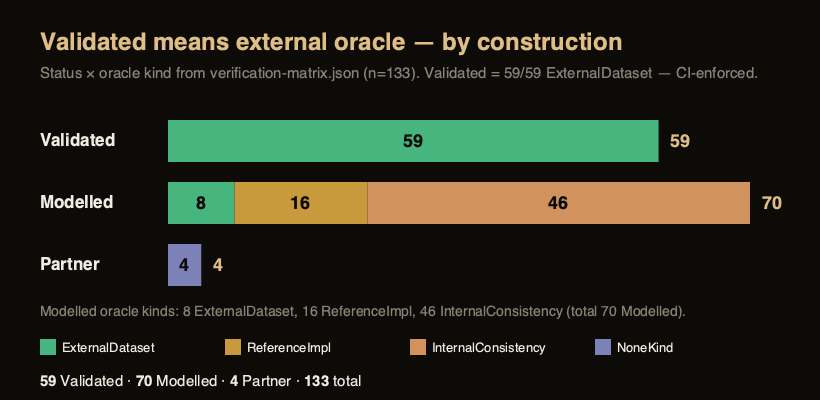
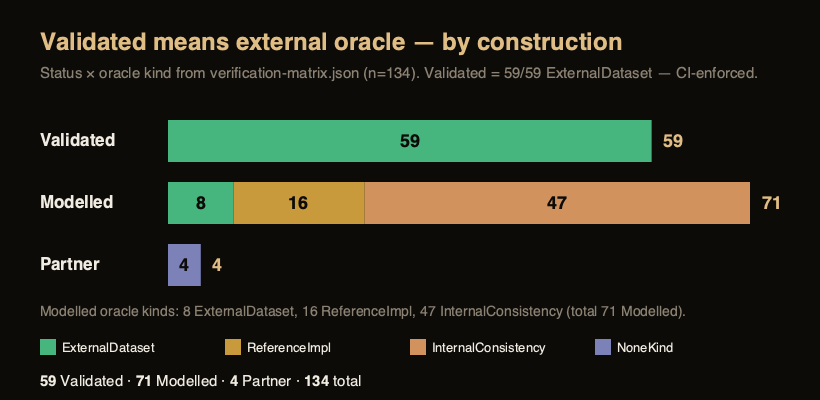
docs(verification): 134 rows after the gate-integrity capability lands
59 VALIDATED, 71 MODELLED, 4 PARTNER. Regenerates every derived artifact and moves
all thirteen count surfaces and both figure pairs together.

The count strings appear in six spellings across the four READMEs and the website —
markdown bold, HTML strong, badge alt text, figure alt text, an inline prose clause
and a static span — and three of them were missed by the first pass because they
differ only in punctuation. Replaced by exact string, never by a numeric pattern:
the same files carry 'degree/order 70' and '70 km of INS drift', which a blanket
substitution would have quietly corrupted.

diff --git a/web/index.html b/web/index.html
@@ -27,7 +27,7 @@
     <meta property="og:image:type" content="image/png" />
     <meta
       property="og:image:alt"
-      content="Kshana — PNT-resilience simulator. Open, reproducible simulation of positioning, navigation and timing when GNSS is denied. 59 of 133 capabilities validated against external oracles."
+      content="Kshana — PNT-resilience simulator. Open, reproducible simulation of positioning, navigation and timing when GNSS is denied. 59 of 134 capabilities validated against external oracles."
     />
     <!-- Twitter / X card -->
     <meta name="twitter:card" content="summary_large_image" />
@@ -42,7 +42,7 @@
     <meta name="twitter:image" content="https://kshana.dev/og-card.png" />
     <meta
       name="twitter:image:alt"
-      content="Kshana — PNT-resilience simulator. 59 of 133 capabilities validated against external oracles."
+      content="Kshana — PNT-resilience simulator. 59 of 134 capabilities validated against external oracles."
     />
     <!-- Structured data: schema.org SoftwareApplication -->
     <script type="application/ld+json">
@@ -466,7 +466,7 @@
             <p class="eyebrow" data-i18n="ledger.eyebrow">Evidence ledger</p>
             <h2 data-i18n="ledger.heading">The complete validation matrix — every row, every proof</h2>
             <p data-i18n-html="ledger.intro">
-              All <span id="ldg-total">133</span> capabilities, generated from
+              All <span id="ldg-total">134</span> capabilities, generated from
               <code>src/verification.rs</code> and pinned to it in CI. Each row links to the
               <strong>test</strong> that enforces it, the <strong>module</strong> that
               implements it, and any committed <strong>fixture/provenance</strong> — so every

diff --git a/docs/MODELLED-RATIONALE.md b/docs/MODELLED-RATIONALE.md
@@ -76,5 +76,6 @@ These capabilities are implemented from published or first-principles physics wi
 | Lunar service volume from real, retrieved constellation geometry | Accepts a tabulated Moon-centred state ephemeris (the evaluation of an SPK/BSP kernel) or a published constellation definition behind `ephemeris_path`, runs the identical coverage / DOP / protection-level sweep against it, and emits the σ_URE ranging requirement it implies BESIDE the unchanged illustrative Keplerian and perturbed results with the difference as its own named quantity. Every figure carries a provenance class that distinguishes kernel-derived from published-element-derived from modelled, so the two can never be confused in a downstream quotation | InternalConsistency | checked against its own closed-form / analytic identity — catches transcription and coefficient errors, but is not an external oracle — The GEOMETRY is external and hashed: three fixtures whose numbers come only from documents retrieved with URL, retrieval date and SHA-256, regenerable by committed generators that verify the upstream hash and ABORT rather than emit a number — the LANS interoperability-demonstration reference constellation (NASA NTRS 20250009447, SHA-256 d1b916be…), the LNCSS case studies (NAVIGATION 70(4) navi.613, CC BY, SHA-256 4e294687…), and a genuine flown-spacecraft ephemeris for LRO, Danuri, Chandrayaan-2 and CAPSTONE evaluated from JPL's own reconstructed kernels via Horizons. NO lunar-navigation constellation kernel exists publicly — Moonlight/LCNS, LCRNS and LNSS are not flying and NAIF publishes nothing for them — and none was invented. The DERIVED σ_URE requirement has NO external oracle (nobody publishes the ranging accuracy a 50 m lunar HPL demands over this service volume), so it is checked against its own algebraic identity and, independently, by re-running the whole sweep at the computed requirement and confirming availability flips there. MEASURED: the published 8-satellite design needs σ_URE 2.9044 m at 100 % coverage against the illustrative constellation's 0.3591 m at 37.85 % — an 8.09× revision of a published number under programme rule R4. The qualitative conclusion survives (LNIS-class 30 m still does not close a 50 m south-polar HPL) but the shortfall was overstated eightfold. The 5-satellite LANS demo yields ZERO protection-level samples — five satellites cannot give the six-in-view a single-fault hypothesis set needs — and the requirement field is ABSENT rather than fabricated; likewise for the four real spacecraft at 0 % coverage. InternalConsistency is the honest kind: the INPUT data is external and hashed, but the quantity this row is about is validated only against itself | lunar_ephemeris, lunar_service | lunar_ephemeris::tests (format and frame parsing; Lagrange interpolation exact at nodes and on a linear track off-node; ICRF elements take the IAU 2015 reduction and are byte-equal to an explicit icrf_to_iau_moon application; true↔mean anomaly round-trips against a forward Kepler solve; malformed files refused with the reason named). lunar_service::tests (with `ephemeris_path` unset the report's key set and SHA-256 are pinned; the Keplerian row equals the standalone Keplerian run field for field; the identity σ_required · HPL_max / σ_URE = AL, then an END-TO-END re-run at the computed requirement reaching 100 % protection-level availability and a re-run 1 % above it not reaching it; every emitted numeric field of both new blocks walked from the produced JSON for a unit and a provenance class; the committed fixtures matched to their source tables satellite for satellite; a horizon past the end of a table refused) |
 | Unit and provenance declared for every reported quantity | A machine-readable schema giving unit, provenance class and definition for every numeric field of every scenario report, plus a single global gate that runs every registered scenario kind and fails if an emitted numeric field lacks either. The provenance vocabulary is closed and each class carries an evidence tier, with two classes deliberately mapped to `inherits-scenario-label` and `depends-on-input` rather than being assigned a tier the class does not determine | InternalConsistency | checked against its own closed-form / analytic identity — catches transcription and coefficient errors, but is not an external oracle — The emitted document itself: every numeric leaf must resolve to an entry in that document's own units block. There is no external unit registry to check a DECLARED unit against, so a declared unit is a reviewed assertion and not a verified one — the gate verifies COMPLETENESS and WELL-FORMEDNESS, not truth, and Validated would be wrong because nothing external confirms that `m` is the right unit for a field named `_m`. An independent name-suffix cross-check was run over the 1,434 described fields: of the 691 carrying a unit-bearing suffix, 40 disagree with the declared unit and all 40 are explained (per-second suffixes, minima, aperture-seconds, newton-metres against a nanometre-looking suffix), so no wrong unit surfaced. COVERAGE MOVED 7 of 56 kinds to 56 of 58, and 389 of 1354 fields to 1434 of 1477. Two kinds remain uncovered and are named with reasons rather than hidden behind a wildcard: `sweep-nd`, two of whose columns are caller-keyed so their units are data, and `cislunar-observability`, whose released document is byte-frozen by an explicit additivity pin asserting it has no units key — adding one is a decision about that pin, not about units. The work also surfaced twelve unit or documentation defects in existing code, reported rather than fixed under R1 | field_schema | tests/field_units_global.rs (all 58 registered kinds run, one document shape each, ~31 s: every numeric leaf must resolve to an entry in that document's own units block; a malformed entry counts as missing for EVERY kind, exempt or not, so a placeholder buys no coverage; the exemption list may not exceed its pinned ceiling, a listed kind that turns out to be fully covered FAILS the gate so the list cannot be padded, and a registered kind absent from the runner table fails so a new pack cannot slip in unexamined — which it did, catching both kinds added after this work began; a one-way ratchet on the described-but-undefined backlog; and a staleness check on the committed schema document); field_schema::tests |
 | Lunar frame datum from a REAL observing campaign | The seven-parameter Helmert datum covariance, with its two simulated inputs replaced by measured ones: the schedule is the ground-transmit epochs of 337 archived ILRS lunar laser-ranging normal points (2015-04-08 to 2015-06-27, Grasse MeO 7845 and Matera MLRO 7941, all five retroreflector arrays) and every observation weight is that point's own archived precision bin_rms/√n_raw — median 5.13 mm of one-way range, read out of the file. Station coordinates IERS ITRF2020, reflector coordinates JPL DE430 Table 7. Runnable as the `lunar-llr-datum` scenario kind | ReferenceImpl | checked against a separate implementation in this same codebase — independent of the unit under test, but not externally authoritative — Closed-form identities and an independent in-repo route; NO external oracle is claimed for the covariance, because no published lunar-LLR datum-covariance pair exists to check it against. The only new derivative — the range partial with respect to the reflector's body-fixed position — is re-derived by central finite difference of the two-way light time it differentiates, a path sharing no expression with the analytic form. The physics oracle is structural: the partial of a range IS twice the line of sight, so the body-fixed coordinate along the mean direction to Earth must be determined far better than the two plane-of-sky coordinates, which only the libration reaches — measured at 50.7× to 71.7× across the five arrays against a libration sweep the report measures independently, with the isotropic small-angle prediction and the transverse anisotropy that explains the gap both printed. WHAT CHANGED: the schedule, the observation count and every observation weight are now measured; 337 of 349 archived points are used and the 12 that are not are skipped and counted, because ITRF2020 carries no position for Apache Point. MEASURED: datum translation sigma 1.851746e-2 m against the SIMULATED campaign's 6.3975 m (345×), rotation 36×, scale 24× — a ratio between a laser-range network and a VLBI-delay network, so a finding rather than a validation. Reflector information rank 15/15 with inter-array coupling exactly 0; Helmert rank 7/7, condition 2.4e4. WHAT THIS ROW DOES NOT CLAIM: that the figure is right in absolute terms. A real LLR solution co-estimates the lunar orbit, physical librations, Earth orientation, station coordinates and tidal and relativistic parameters, and reports decimetres (DE430 Table 7's own 0.12-0.27 m) where this bound is far smaller; this is a Cramér-Rao bound for a stated reduced parameter set, not an accuracy. Stays MODELLED: the Moon-centre ephemeris and the IAU 2015 body orientation are modelled, and troposphere, tides, station eccentricity, polar motion, UT1-UTC, relativistic delay and station clocks are absent. Their combined size is PUBLISHED rather than argued — observed-minus-computed one-way range 156,494 m RMS over the 337 points — and their effect on the covariance is BOUNDED rather than argued: re-solving the entire datum with every partial tilted by 0.1° (twice the measured worst-epoch ephemeris tilt, sign alternating) moves the deliverable by 0.288 % | lunar_llr, realdata::llr_crd (composing fim, cio, frames, ephem, lunar_frame, lunar_frame_campaign) | tests/lunar_llr_real_data.rs (11 tests: all 15 committed CRD files byte-identical to their recorded digests; all 349 records accounted for, 337 used and 12 skipped for a named reason; every archived range inside the real perigee/apogee envelope; the weights shown to BE bin_rms/√n_raw; the line-of-sight coordinate best determined for every array with the libration sweep that buys it measured separately; the residual and its independent confirmation against JPL Horizons; the 0.1-degree geometry-tilt sensitivity; the simulated-campaign comparison shown equal to an independent run of that scenario; an R1 bit-for-bit pin on the three pre-existing lunar frame packs); lunar_llr::tests (12: the range partial against a central finite difference of the modelled time of flight to < 1e-6 relative; the light time a converged lunar round trip; the datum sigma exactly linear in the weight scale to 1e-9; block-diagonality exact; a missing data directory refused rather than substituted; an edited catalogue row caught by its own radius column); realdata::llr_crd::tests (7: field semantics, midnight rollover, refusal of a non-UTC time scale and of an unsupported format version, and no substituted sigma for an empty bin) |
+| Gate integrity — a green that means what it says | Three structural guards over the verification process itself, each closing a class of defect that reached the canonical gate as an intermittent or spurious red. (1) Every constructed temp path in the Rust sources must carry a per-call unique component; a process id is rejected, because cargo runs the library tests as parallel threads of ONE process and the pid is shared by all of them. (2) Every byte-for-byte or hash pin must declare, next to itself or in its module header, what it covers and what it deliberately excludes — so a cross-cutting change can tell at a glance which pins are in scope and which have silently become repository-wide change detectors. (3) A green is claimable only from the FULL suite: scripts/gate.sh runs `cargo test --all`, captures the true exit code with no pipe in the way, and writes a receipt naming the commit, the integration-binary count, the test count and the duration; the pre-push check refuses a push whose commit no valid receipt names, on a clean tree. Repeatability is sampled separately by scripts/check-repeatability.sh, which runs the library suite N times and fails if the set of passing tests differs. | InternalConsistency | checked against its own closed-form / analytic identity — catches transcription and coefficient errors, but is not an external oracle — Closed-form: each guard is run over a fixed known-bad snippet that must fire and a fixed known-good snippet that must stay silent, both literal constants the detector cannot influence. The two known-bad snippets are the F22 and F25 defects in their original shape. This is an INTERNAL oracle and the row is MODELLED accordingly: it proves the guards discriminate the defect from its fix, not that the classes they describe are exhaustive. Their stated blind spots — shared state that is not a path, a pin held in a short named constant, a rare race that three runs do not sample, and a receipt that anyone who can write the file can forge — are written out in the module documentation of tests/source_guards.rs and in each script's header rather than left to be discovered. | scripts/gate.sh, scripts/check-gate-receipt.sh, scripts/check-repeatability.sh, scripts/install-gate-hook.sh | tests/source_guards.rs (9 tests: both guards over the whole source tree, plus mutation fixtures that grade each guard in both directions — the F22 pattern reported on both colliding paths, the shipped atomic-sequence fix accepted, a half-fix reported on exactly the path that lost its unique component, a tempfile handle and an inherited unique directory accepted, a wall clock rejected; an undeclared pin reported, a declared one accepted, a scope without an exclusion rejected, a declaration in the enclosing test's doc comment accepted and shown not to leak to the next test; and each pin spelling — hex, decimal, digest string, byte length, named byte count, golden file — seen while algorithm constants, RNG seeds and small cardinality checks are not) |
 
-70 capabilities labelled MODELLED.
+71 capabilities labelled MODELLED.

diff --git a/docs/VERIFICATION-MATRIX.md b/docs/VERIFICATION-MATRIX.md
@@ -2,7 +2,7 @@
 
 <!-- Generated by `cargo run --bin gen_validation_artifacts` from src/verification.rs; pinned by tests/verification_artifacts_doc_sync.rs. Do not edit by hand. -->
 
-The complete, machine-checked evidence ledger: **133 rows — 59 VALIDATED, 70 MODELLED, 4 PARTNER**. A row may be VALIDATED only with an independent external oracle (the matrix invariant tests enforce this). The same data, with clickable per-row links to each test, module and committed fixture, is the *Validation ledger* on https://kshana.dev. See [MODELLED-RATIONALE.md](MODELLED-RATIONALE.md) for why each Modelled row is not externally validated.
+The complete, machine-checked evidence ledger: **134 rows — 59 VALIDATED, 71 MODELLED, 4 PARTNER**. A row may be VALIDATED only with an independent external oracle (the matrix invariant tests enforce this). The same data, with clickable per-row links to each test, module and committed fixture, is the *Validation ledger* on https://kshana.dev. See [MODELLED-RATIONALE.md](MODELLED-RATIONALE.md) for why each Modelled row is not externally validated.
 
 | Requirement | Capability | Module | Tests | Oracle | Status |
 |---|---|---|---|---|---|
@@ -139,5 +139,6 @@ The complete, machine-checked evidence ledger: **133 rows — 59 VALIDATED, 70 M
 | Unit and provenance declared for every reported quantity | A machine-readable schema giving unit, provenance class and definition for every numeric field of every scenario report, plus a single global gate that runs every registered scenario kind and fails if an emitted numeric field lacks either. The provenance vocabulary is closed and each class carries an evidence tier, with two classes deliberately mapped to `inherits-scenario-label` and `depends-on-input` rather than being assigned a tier the class does not determine | field_schema | tests/field_units_global.rs (all 58 registered kinds run, one document shape each, ~31 s: every numeric leaf must resolve to an entry in that document's own units block; a malformed entry counts as missing for EVERY kind, exempt or not, so a placeholder buys no coverage; the exemption list may not exceed its pinned ceiling, a listed kind that turns out to be fully covered FAILS the gate so the list cannot be padded, and a registered kind absent from the runner table fails so a new pack cannot slip in unexamined — which it did, catching both kinds added after this work began; a one-way ratchet on the described-but-undefined backlog; and a staleness check on the committed schema document); field_schema::tests | The emitted document itself: every numeric leaf must resolve to an entry in that document's own units block. There is no external unit registry to check a DECLARED unit against, so a declared unit is a reviewed assertion and not a verified one — the gate verifies COMPLETENESS and WELL-FORMEDNESS, not truth, and Validated would be wrong because nothing external confirms that `m` is the right unit for a field named `_m`. An independent name-suffix cross-check was run over the 1,434 described fields: of the 691 carrying a unit-bearing suffix, 40 disagree with the declared unit and all 40 are explained (per-second suffixes, minima, aperture-seconds, newton-metres against a nanometre-looking suffix), so no wrong unit surfaced. COVERAGE MOVED 7 of 56 kinds to 56 of 58, and 389 of 1354 fields to 1434 of 1477. Two kinds remain uncovered and are named with reasons rather than hidden behind a wildcard: `sweep-nd`, two of whose columns are caller-keyed so their units are data, and `cislunar-observability`, whose released document is byte-frozen by an explicit additivity pin asserting it has no units key — adding one is a decision about that pin, not about units. The work also surfaced twelve unit or documentation defects in existing code, reported rather than fixed under R1 | MODELLED |
 | Lunar frame datum from a REAL observing campaign | The seven-parameter Helmert datum covariance, with its two simulated inputs replaced by measured ones: the schedule is the ground-transmit epochs of 337 archived ILRS lunar laser-ranging normal points (2015-04-08 to 2015-06-27, Grasse MeO 7845 and Matera MLRO 7941, all five retroreflector arrays) and every observation weight is that point's own archived precision bin_rms/√n_raw — median 5.13 mm of one-way range, read out of the file. Station coordinates IERS ITRF2020, reflector coordinates JPL DE430 Table 7. Runnable as the `lunar-llr-datum` scenario kind | lunar_llr, realdata::llr_crd (composing fim, cio, frames, ephem, lunar_frame, lunar_frame_campaign) | tests/lunar_llr_real_data.rs (11 tests: all 15 committed CRD files byte-identical to their recorded digests; all 349 records accounted for, 337 used and 12 skipped for a named reason; every archived range inside the real perigee/apogee envelope; the weights shown to BE bin_rms/√n_raw; the line-of-sight coordinate best determined for every array with the libration sweep that buys it measured separately; the residual and its independent confirmation against JPL Horizons; the 0.1-degree geometry-tilt sensitivity; the simulated-campaign comparison shown equal to an independent run of that scenario; an R1 bit-for-bit pin on the three pre-existing lunar frame packs); lunar_llr::tests (12: the range partial against a central finite difference of the modelled time of flight to < 1e-6 relative; the light time a converged lunar round trip; the datum sigma exactly linear in the weight scale to 1e-9; block-diagonality exact; a missing data directory refused rather than substituted; an edited catalogue row caught by its own radius column); realdata::llr_crd::tests (7: field semantics, midnight rollover, refusal of a non-UTC time scale and of an unsupported format version, and no substituted sigma for an empty bin) | Closed-form identities and an independent in-repo route; NO external oracle is claimed for the covariance, because no published lunar-LLR datum-covariance pair exists to check it against. The only new derivative — the range partial with respect to the reflector's body-fixed position — is re-derived by central finite difference of the two-way light time it differentiates, a path sharing no expression with the analytic form. The physics oracle is structural: the partial of a range IS twice the line of sight, so the body-fixed coordinate along the mean direction to Earth must be determined far better than the two plane-of-sky coordinates, which only the libration reaches — measured at 50.7× to 71.7× across the five arrays against a libration sweep the report measures independently, with the isotropic small-angle prediction and the transverse anisotropy that explains the gap both printed. WHAT CHANGED: the schedule, the observation count and every observation weight are now measured; 337 of 349 archived points are used and the 12 that are not are skipped and counted, because ITRF2020 carries no position for Apache Point. MEASURED: datum translation sigma 1.851746e-2 m against the SIMULATED campaign's 6.3975 m (345×), rotation 36×, scale 24× — a ratio between a laser-range network and a VLBI-delay network, so a finding rather than a validation. Reflector information rank 15/15 with inter-array coupling exactly 0; Helmert rank 7/7, condition 2.4e4. WHAT THIS ROW DOES NOT CLAIM: that the figure is right in absolute terms. A real LLR solution co-estimates the lunar orbit, physical librations, Earth orientation, station coordinates and tidal and relativistic parameters, and reports decimetres (DE430 Table 7's own 0.12-0.27 m) where this bound is far smaller; this is a Cramér-Rao bound for a stated reduced parameter set, not an accuracy. Stays MODELLED: the Moon-centre ephemeris and the IAU 2015 body orientation are modelled, and troposphere, tides, station eccentricity, polar motion, UT1-UTC, relativistic delay and station clocks are absent. Their combined size is PUBLISHED rather than argued — observed-minus-computed one-way range 156,494 m RMS over the 337 points — and their effect on the covariance is BOUNDED rather than argued: re-solving the entire datum with every partial tilted by 0.1° (twice the measured worst-epoch ephemeris tilt, sign alternating) moves the deliverable by 0.288 % | MODELLED |
 | Built-in analytic lunar ephemeris — its STATED ACCURACY BOUND checked against real data | ephem::moon_position, the low-precision geocentric lunar series the crate falls back on when no DE/SPK kernel is present, measured against real lunar laser ranging and against a published planetary ephemeris over the same span. This row validates the bound the module states about itself, NOT an accuracy: the series is confirmed to be no worse than it says, not confirmed to be good | ephem (moon_position), lunar_llr, realdata::llr_crd | tests/lunar_llr_real_data.rs::the_analytic_moon_series_disagrees_with_jpl_by_the_same_amount (12 weekly geocentric states, worst-epoch angle asserted < 0.3° and RMS < 5e5 m against the module's own documented claim, plus the LLR residual asserted to agree with the radial disagreement to < 5×); ::the_measured_residual_is_the_ephemeris_error (337 real normal points) | TWO independent external datasets that share nothing. (1) 337 archived ILRS lunar laser-ranging normal points (EUROLAS Data Center, DGFI-TUM, 2015-04-08 to 2015-06-27, five retroreflector arrays, committed with per-file SHA-256 and a re-download-and-verify script): observed-minus-computed one-way range 156,494 m RMS, with station coordinates from IERS ITRF2020 and reflector coordinates from JPL DE430 Table 7, so the residual is dominated by the Moon-centre series. (2) JPL Horizons geometric geocentric Moon states over the same span: 112,567 m RMS radial, 195,655 m RMS vector, worst epoch 360,324 m = 0.0536°. A range residual responds to the RADIAL part of an ephemeris error, so (1) and (2) are the same quantity reached two ways and agree to 1.39× — which is what licenses the lunar-llr-datum scenario to attribute its residual to the ephemeris. The engine's own module documentation claims ~0.3° / ~few·10² km; both measurements are inside it, the angular claim with a 5.6× margin. SCOPE, stated so no reader can mistake it: this validates the stated BOUND, not an accuracy figure. The series remains unsuitable for any application needing better than ~1e5 m, and that limitation is the row's content as much as the agreement is. Regenerable offline by the committed fetch-and-verify scripts | VALIDATED |
+| Gate integrity — a green that means what it says | Three structural guards over the verification process itself, each closing a class of defect that reached the canonical gate as an intermittent or spurious red. (1) Every constructed temp path in the Rust sources must carry a per-call unique component; a process id is rejected, because cargo runs the library tests as parallel threads of ONE process and the pid is shared by all of them. (2) Every byte-for-byte or hash pin must declare, next to itself or in its module header, what it covers and what it deliberately excludes — so a cross-cutting change can tell at a glance which pins are in scope and which have silently become repository-wide change detectors. (3) A green is claimable only from the FULL suite: scripts/gate.sh runs `cargo test --all`, captures the true exit code with no pipe in the way, and writes a receipt naming the commit, the integration-binary count, the test count and the duration; the pre-push check refuses a push whose commit no valid receipt names, on a clean tree. Repeatability is sampled separately by scripts/check-repeatability.sh, which runs the library suite N times and fails if the set of passing tests differs. | scripts/gate.sh, scripts/check-gate-receipt.sh, scripts/check-repeatability.sh, scripts/install-gate-hook.sh | tests/source_guards.rs (9 tests: both guards over the whole source tree, plus mutation fixtures that grade each guard in both directions — the F22 pattern reported on both colliding paths, the shipped atomic-sequence fix accepted, a half-fix reported on exactly the path that lost its unique component, a tempfile handle and an inherited unique directory accepted, a wall clock rejected; an undeclared pin reported, a declared one accepted, a scope without an exclusion rejected, a declaration in the enclosing test's doc comment accepted and shown not to leak to the next test; and each pin spelling — hex, decimal, digest string, byte length, named byte count, golden file — seen while algorithm constants, RNG seeds and small cardinality checks are not) | Closed-form: each guard is run over a fixed known-bad snippet that must fire and a fixed known-good snippet that must stay silent, both literal constants the detector cannot influence. The two known-bad snippets are the F22 and F25 defects in their original shape. This is an INTERNAL oracle and the row is MODELLED accordingly: it proves the guards discriminate the defect from its fix, not that the classes they describe are exhaustive. Their stated blind spots — shared state that is not a path, a pin held in a short named constant, a rare race that three runs do not sample, and a receipt that anyone who can write the file can forge — are written out in the module documentation of tests/source_guards.rs and in each script's header rather than left to be discovered. | MODELLED |
 
-133 rows: 59 externally validated, 70 modelled, 4 partner-owned.
+134 rows: 59 externally validated, 71 modelled, 4 partner-owned.

diff --git a/README.md b/README.md
@@ -14,7 +14,7 @@
 <p align="center">
   <a href="https://kshana.dev"><img src="https://img.shields.io/badge/playground-try%20in%20browser-c79e63" alt="Live playground — run in your browser, no install"></a>
   <a href="tests/sgp4_verification.rs"><img src="https://img.shields.io/badge/SGP4-666%2F666%20AIAA%20vectors%20%C2%B7%204.12mm-3fb950" alt="SGP4 validated against all 666 AIAA 2006-6753 vectors, worst 4.12 mm"></a>
-  <a href="#validation-at-a-glance"><img src="https://img.shields.io/badge/validated-59%20external%20oracles-3fb950" alt="59 capabilities validated against independent external oracles (real data, independent libraries, or published reference vectors); 70 more are honestly labelled MODELLED and 4 are PARTNER-owned — see Validation at a glance"></a>
+  <a href="#validation-at-a-glance"><img src="https://img.shields.io/badge/validated-59%20external%20oracles-3fb950" alt="59 capabilities validated against independent external oracles (real data, independent libraries, or published reference vectors); 71 more are honestly labelled MODELLED and 4 are PARTNER-owned — see Validation at a glance"></a>
   <a href="https://github.com/ashfordeOU/kshana/actions/workflows/ci.yml"><img src="https://img.shields.io/badge/coverage-~96%25%20line-3fb950" alt="~96% line coverage on src/ (cargo-tarpaulin LLVM engine), gated at 85% in CI"></a>
   <a href="https://github.com/ashfordeOU/kshana/actions/workflows/ci.yml"><img src="https://github.com/ashfordeOU/kshana/actions/workflows/ci.yml/badge.svg" alt="CI"></a>
   <a href="https://sonarcloud.io/summary/overall?id=ashfordeOU_kshana"><img src="https://sonarcloud.io/api/project_badges/measure?project=ashfordeOU_kshana&metric=alert_status" alt="SonarQube Cloud Quality Gate status"></a>
@@ -50,7 +50,7 @@ navigation. Every result is reproducible from `scenario + seed + engine version`
 and every sensor parameter is traceable to a published source — consolidated in one
 citable table in [`docs/PROVENANCE.md`](docs/PROVENANCE.md).
 
-<p align="center"><em><strong>Validated, not asserted.</strong> &nbsp;666/666 AIAA SGP4 vectors to <strong>4.12&nbsp;mm</strong> · Cowell force model <strong>0.08&nbsp;m</strong> vs Orekit&nbsp;12.2 · Galileo <strong>0.61&nbsp;m</strong> / Swarm-A <strong>0.10&nbsp;m</strong> vs real ESA precise ephemerides · GCRS→ITRS bit-for-bit vs SOFA/ERFA · ML metrics exact vs scikit-learn · <strong>59 of 133</strong> capabilities validated against independent external oracles; 70 honestly labelled Modelled.</em></p>
+<p align="center"><em><strong>Validated, not asserted.</strong> &nbsp;666/666 AIAA SGP4 vectors to <strong>4.12&nbsp;mm</strong> · Cowell force model <strong>0.08&nbsp;m</strong> vs Orekit&nbsp;12.2 · Galileo <strong>0.61&nbsp;m</strong> / Swarm-A <strong>0.10&nbsp;m</strong> vs real ESA precise ephemerides · GCRS→ITRS bit-for-bit vs SOFA/ERFA · ML metrics exact vs scikit-learn · <strong>59 of 134</strong> capabilities validated against independent external oracles; 71 honestly labelled Modelled.</em></p>
 
 <p align="center">
   <img src="docs/assets/diagrams/system-overview.png" alt="Kshana system overview: five front doors (CLI, Python wheel, WebAssembly playground, MCP server, JetBrains plugin) converge on a single api::run_toml dispatch over 50 scenario kinds, through the engine (shared core, sensor packs and astrodynamics, integrity/fusion/lunar/deep-space/resilience), to a reproducible result.json + chart.svg" width="840">
@@ -72,8 +72,8 @@ Each row is checked against an **independent external oracle** (real dataset, in
 | ✅ | Fisher information · CRLB · observability | eigh / CRLB / DOP to **1e-9** | NumPy 2.4.1 (LAPACK) + Kay (1993) closed forms |
 
 <p align="center">
-  <img src="docs/assets/figures/validation-breakdown.png" alt="Verification status across all 133 capabilities: 59 Validated (checked vs external oracle), 70 Modelled, 4 Partner-owned" width="780">
-  <br><sub>59 Validated · 70 Modelled · 4 Partner — <a href="docs/assets/figures/validation-breakdown.svg">SVG</a></sub>
+  <img src="docs/assets/figures/validation-breakdown.png" alt="Verification status across all 134 capabilities: 59 Validated (checked vs external oracle), 71 Modelled, 4 Partner-owned" width="780">
+  <br><sub>59 Validated · 71 Modelled · 4 Partner — <a href="docs/assets/figures/validation-breakdown.svg">SVG</a></sub>
 </p>
 
 *Free and open source under the GNU AGPL-3.0 — with a commercial licence available
@@ -1029,7 +1029,7 @@ kshana/
 ### Validation at a glance
 
 <p align="center">
-  <img src="docs/assets/diagrams/validation-provenance.png" alt="How a capability earns its label: Requirement maps to a module in src, to a test in tests, to an external oracle (real dataset, independent reference implementation, or published vectors), to a status — with a CI-enforced guard that no capability can be Validated without an external oracle. Live counts: 59 Validated, 70 Modelled, 4 Partner, 133 total" width="900">
+  <img src="docs/assets/diagrams/validation-provenance.png" alt="How a capability earns its label: Requirement maps to a module in src, to a test in tests, to an external oracle (real dataset, independent reference implementation, or published vectors), to a status — with a CI-enforced guard that no capability can be Validated without an external oracle. Live counts: 59 Validated, 71 Modelled, 4 Partner, 134 total" width="900">
   <br><sub>How a capability earns its label — the CI-enforced invariant: no external oracle ⇒ cannot be Validated · <a href="docs/assets/diagrams/validation-provenance.svg">SVG</a></sub>
 </p>
 
@@ -1041,7 +1041,7 @@ kshana/
 </p>
 
 Every row is enforced by a named test in CI. This table is a **curated highlight**;
-the full machine-checked matrix is **133 rows — 59 VALIDATED, 70 MODELLED, 4 PARTNER**
+the full machine-checked matrix is **134 rows — 59 VALIDATED, 71 MODELLED, 4 PARTNER**
 (`src/verification.rs`), with the complete evidence (and what is honestly *not* yet
 validated) in [`docs/VALIDATION.md`](docs/VALIDATION.md) and the per-release
 [`kshana-validation-summary.html`](https://github.com/ashfordeOU/kshana/releases)

diff --git a/README.crates.md b/README.crates.md
@@ -14,7 +14,7 @@
 
 <p align="center">
   <a href="https://github.com/AshfordeOU/kshana/blob/main/tests/sgp4_verification.rs"><img src="https://img.shields.io/badge/SGP4-666%2F666%20AIAA%20vectors%20%C2%B7%204.12mm-3fb950" alt="SGP4 validated against all 666 AIAA 2006-6753 vectors, worst 4.12 mm"></a>
-  <a href="https://github.com/AshfordeOU/kshana#validation-at-a-glance"><img src="https://img.shields.io/badge/validated-59%20external%20oracles-3fb950" alt="59 of 133 capabilities validated against independent external oracles"></a>
+  <a href="https://github.com/AshfordeOU/kshana#validation-at-a-glance"><img src="https://img.shields.io/badge/validated-59%20external%20oracles-3fb950" alt="59 of 134 capabilities validated against independent external oracles"></a>
   <a href="https://github.com/AshfordeOU/kshana/actions/workflows/ci.yml"><img src="https://img.shields.io/badge/coverage-~96%25%20line-3fb950" alt="~96% line coverage, gated at 85% in CI"></a>
   <a href="https://github.com/AshfordeOU/kshana/releases"><img src="https://img.shields.io/badge/release-v0.26.0-c79e63" alt="Release v0.26.0"></a>
   <a href="https://kshana.dev"><img src="https://img.shields.io/badge/playground-try%20in%20browser-c79e63" alt="Live playground — run in your browser, no install"></a>
@@ -33,8 +33,8 @@ traceable to a published source.
 > ***Validated, not asserted.*** 666/666 AIAA SGP4 vectors to **4.12 mm** · Cowell
 > force model **0.08 m** vs Orekit 12.2 · Galileo **0.61 m** / Swarm-A **0.10 m** vs
 > real ESA precise ephemerides · GCRS→ITRS bit-for-bit vs SOFA/ERFA · ML metrics exact
-> vs scikit-learn · **59 of 133** capabilities validated against independent external
-> oracles; 70 honestly labelled Modelled, 4 partner-owned.
+> vs scikit-learn · **59 of 134** capabilities validated against independent external
+> oracles; 71 honestly labelled Modelled, 4 partner-owned.
 
 <p align="center">
   <img src="https://raw.githubusercontent.com/AshfordeOU/kshana/main/docs/assets/diagrams/system-overview.png" alt="Kshana system overview: five front doors (CLI, Python wheel, WebAssembly playground, MCP server, JetBrains plugin) converge on a single api::run_toml dispatch, through the engine, to a reproducible result.json + chart.svg" width="840">
@@ -55,7 +55,7 @@ independent reference implementation, or published reference vectors) and re-che
 | ✅ | GNSS DOP · ML detector metrics | to **1e-6** · to **1e-9** | gnss_lib_py · scikit-learn |
 
 <p align="center">
-  <img src="https://raw.githubusercontent.com/AshfordeOU/kshana/main/docs/assets/figures/validation-breakdown.png" alt="Verification status across all 133 capabilities: 59 Validated, 70 Modelled, 4 Partner-owned" width="780">
+  <img src="https://raw.githubusercontent.com/AshfordeOU/kshana/main/docs/assets/figures/validation-breakdown.png" alt="Verification status across all 134 capabilities: 59 Validated, 71 Modelled, 4 Partner-owned" width="780">
 </p>
 
 ## Install

diff --git a/README.pypi.md b/README.pypi.md
@@ -14,7 +14,7 @@
 
 <p align="center">
   <a href="https://github.com/AshfordeOU/kshana/blob/main/tests/sgp4_verification.rs"><img src="https://img.shields.io/badge/SGP4-666%2F666%20AIAA%20vectors%20%C2%B7%204.12mm-3fb950" alt="SGP4 validated against all 666 AIAA 2006-6753 vectors, worst 4.12 mm"></a>
-  <a href="https://github.com/AshfordeOU/kshana#validation-at-a-glance"><img src="https://img.shields.io/badge/validated-59%20external%20oracles-3fb950" alt="59 of 133 capabilities validated against independent external oracles"></a>
+  <a href="https://github.com/AshfordeOU/kshana#validation-at-a-glance"><img src="https://img.shields.io/badge/validated-59%20external%20oracles-3fb950" alt="59 of 134 capabilities validated against independent external oracles"></a>
   <a href="https://github.com/AshfordeOU/kshana/actions/workflows/ci.yml"><img src="https://img.shields.io/badge/coverage-~96%25%20line-3fb950" alt="~96% line coverage, gated at 85% in CI"></a>
   <a href="https://github.com/AshfordeOU/kshana/releases"><img src="https://img.shields.io/badge/release-v0.26.0-c79e63" alt="Release v0.26.0"></a>
   <a href="https://kshana.dev"><img src="https://img.shields.io/badge/playground-try%20in%20browser-c79e63" alt="Live playground — run in your browser, no install"></a>
@@ -34,8 +34,8 @@ published source.
 > ***Validated, not asserted.*** 666/666 AIAA SGP4 vectors to **4.12 mm** · Cowell
 > force model **0.08 m** vs Orekit 12.2 · Galileo **0.61 m** / Swarm-A **0.10 m** vs
 > real ESA precise ephemerides · GCRS→ITRS bit-for-bit vs SOFA/ERFA · ML metrics exact
-> vs scikit-learn · **59 of 133** capabilities validated against independent external
-> oracles; 70 honestly labelled Modelled, 4 partner-owned.
+> vs scikit-learn · **59 of 134** capabilities validated against independent external
+> oracles; 71 honestly labelled Modelled, 4 partner-owned.
 
 <p align="center">
   <img src="https://raw.githubusercontent.com/AshfordeOU/kshana/main/docs/assets/diagrams/system-overview.png" alt="Kshana system overview: five front doors (CLI, Python wheel, WebAssembly playground, MCP server, JetBrains plugin) converge on a single api::run_toml dispatch, through the engine, to a reproducible result.json + chart.svg" width="840">
@@ -56,7 +56,7 @@ independent reference implementation, or published reference vectors) and re-che
 | ✅ | GNSS DOP · ML detector metrics | to **1e-6** · to **1e-9** | gnss_lib_py · scikit-learn |
 
 <p align="center">
-  <img src="https://raw.githubusercontent.com/AshfordeOU/kshana/main/docs/assets/figures/validation-breakdown.png" alt="Verification status across all 133 capabilities: 59 Validated, 70 Modelled, 4 Partner-owned" width="780">
+  <img src="https://raw.githubusercontent.com/AshfordeOU/kshana/main/docs/assets/figures/validation-breakdown.png" alt="Verification status across all 134 capabilities: 59 Validated, 71 Modelled, 4 Partner-owned" width="780">
 </p>
 
 ## Install

diff --git a/README.npm.md b/README.npm.md
@@ -15,7 +15,7 @@
 
 <p align="center">
   <a href="https://github.com/AshfordeOU/kshana/blob/main/tests/sgp4_verification.rs"><img src="https://img.shields.io/badge/SGP4-666%2F666%20AIAA%20vectors%20%C2%B7%204.12mm-3fb950" alt="SGP4 validated against all 666 AIAA 2006-6753 vectors, worst 4.12 mm"></a>
-  <a href="https://github.com/AshfordeOU/kshana#validation-at-a-glance"><img src="https://img.shields.io/badge/validated-59%20external%20oracles-3fb950" alt="59 of 133 capabilities validated against independent external oracles"></a>
+  <a href="https://github.com/AshfordeOU/kshana#validation-at-a-glance"><img src="https://img.shields.io/badge/validated-59%20external%20oracles-3fb950" alt="59 of 134 capabilities validated against independent external oracles"></a>
   <a href="https://github.com/AshfordeOU/kshana/releases"><img src="https://img.shields.io/badge/release-v0.26.0-c79e63" alt="Release v0.26.0"></a>
   <a href="https://kshana.dev"><img src="https://img.shields.io/badge/playground-try%20in%20browser-c79e63" alt="Live playground — run in your browser, no install"></a>
   <a href="https://github.com/AshfordeOU/kshana/blob/main/LICENSE"><img src="https://img.shields.io/badge/License-AGPL_v3-blue.svg" alt="License: AGPL-3.0-only"></a>
@@ -32,8 +32,8 @@ parameter is traceable to a published source.
 > ***Validated, not asserted.*** 666/666 AIAA SGP4 vectors to **4.12 mm** · Cowell
 > force model **0.08 m** vs Orekit 12.2 · Galileo **0.61 m** / Swarm-A **0.10 m** vs
 > real ESA precise ephemerides · GCRS→ITRS bit-for-bit vs SOFA/ERFA · ML metrics exact
-> vs scikit-learn · **59 of 133** capabilities validated against independent external
-> oracles; 70 honestly labelled Modelled, 4 partner-owned.
+> vs scikit-learn · **59 of 134** capabilities validated against independent external
+> oracles; 71 honestly labelled Modelled, 4 partner-owned.
 
 <p align="center">
   <img src="https://raw.githubusercontent.com/AshfordeOU/kshana/main/docs/assets/diagrams/system-overview.png" alt="Kshana system overview: five front doors (CLI, Python wheel, WebAssembly playground, MCP server, JetBrains plugin) converge on a single api::run_toml dispatch, through the engine, to a reproducible result.json + chart.svg" width="840">
@@ -51,7 +51,7 @@ parameter is traceable to a published source.
 | ✅ | GNSS DOP · ML detector metrics | to **1e-6** · to **1e-9** | gnss_lib_py · scikit-learn |
 
 <p align="center">
-  <img src="https://raw.githubusercontent.com/AshfordeOU/kshana/main/docs/assets/figures/validation-breakdown.png" alt="Verification status across all 133 capabilities: 59 Validated, 70 Modelled, 4 Partner-owned" width="780">
+  <img src="https://raw.githubusercontent.com/AshfordeOU/kshana/main/docs/assets/figures/validation-breakdown.png" alt="Verification status across all 134 capabilities: 59 Validated, 71 Modelled, 4 Partner-owned" width="780">
 </p>
 
 ## Install
